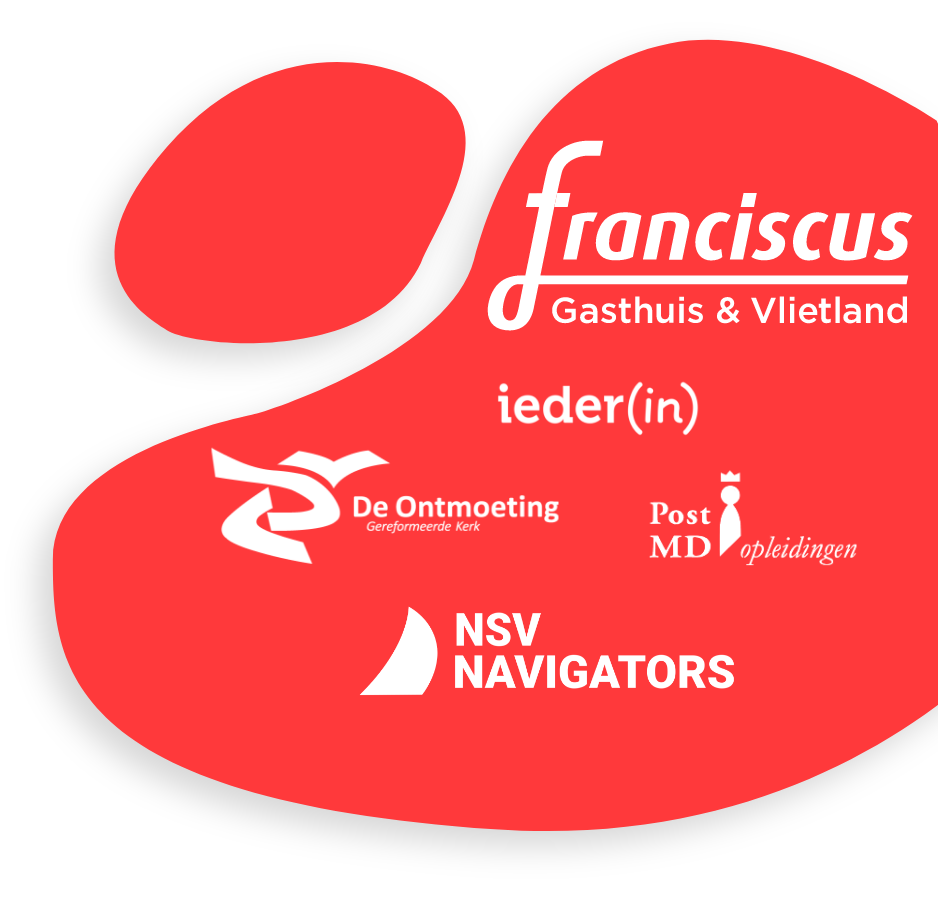
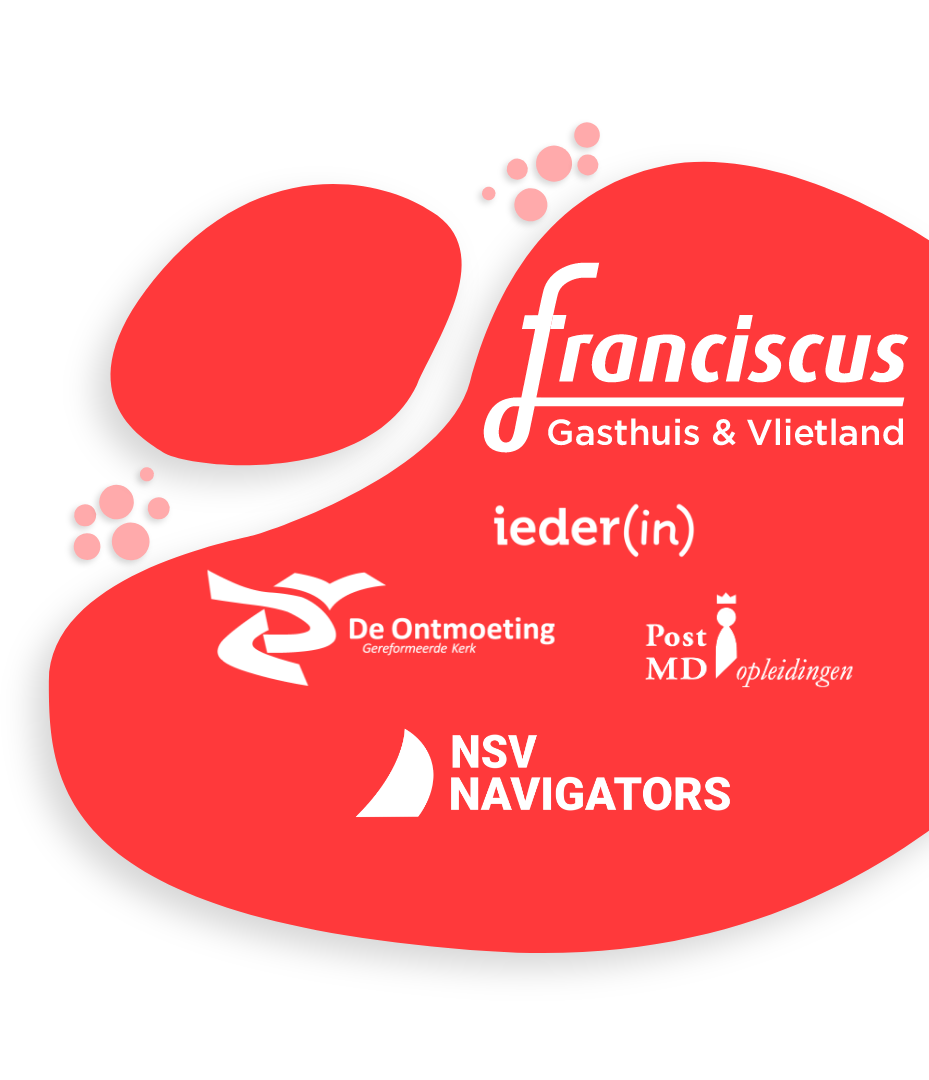
small changes

diff --git a/css/info.css b/css/info.css
@@ -19,6 +19,7 @@
     background-repeat: no-repeat;
     background-size: contain;
     background-position-y: center;
+    background-position-x: left;
 }
 
 .info-grid {
@@ -49,6 +50,12 @@ section p {
     text-align: right;
     margin-top: 150px;
     margin: 150px 15% 0 0;
+}
+
+@media screen and (min-width: 1101px) {
+    .partners-section {
+        height: 700px;
+    }
 }
 
 @media screen and (max-width: 1100px) {
